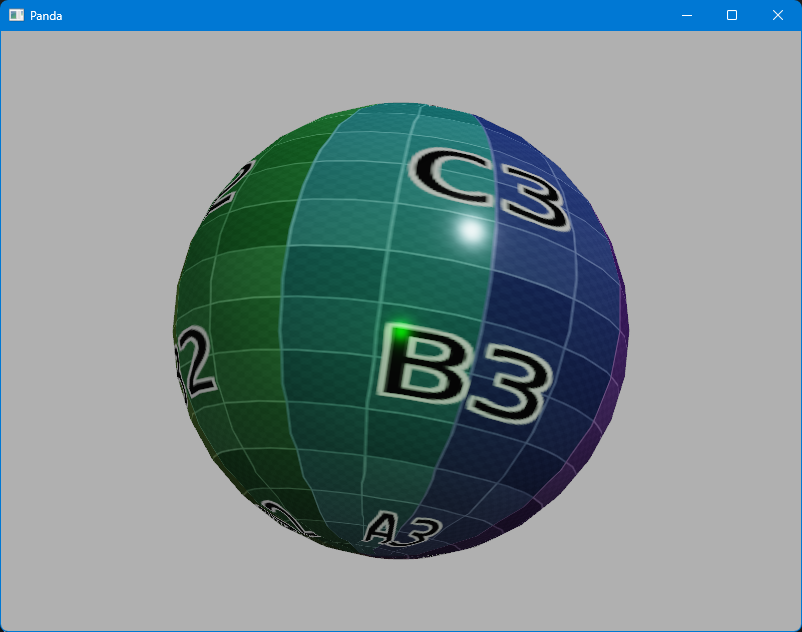
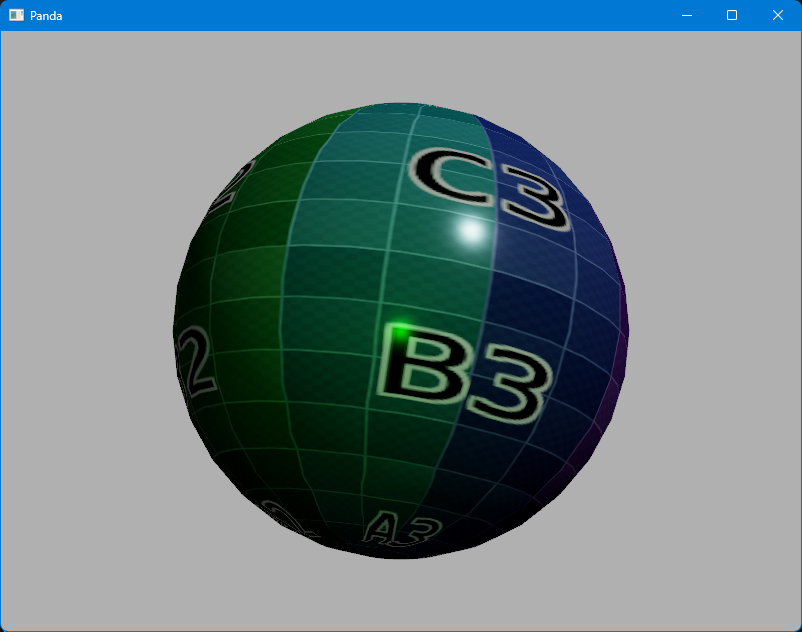
Fix ambient lighting in PBR lesson 1.

Changed region(s): [[0.2182, 0.1503, 0.8105, 0.9019]]

diff --git a/pbr/01-scene_setup/main.py b/pbr/01-scene_setup/main.py
@@ -21,7 +21,7 @@ class ShaderDemo(ShowBase):
 
         # Setup lighting
         self.ambient_light = self.render.attach_new_node(AmbientLight("AmbientLight"))
-        self.ambient_light.node().set_color(Vec4(.2, .2, .2, 1))
+        self.ambient_light.node().set_color(Vec4(.04, .04, .04, 1))
         self.render.set_light(self.ambient_light)
 
         self.sun = self.render.attach_new_node(DirectionalLight("Sun"))

diff --git a/pbr/01-scene_setup/README.md b/pbr/01-scene_setup/README.md
@@ -69,7 +69,7 @@ And inside the `__init__` method of the `ShaderDemo` class, add this code before
 ```python
 # Setup lighting
 self.ambient_light = self.render.attach_new_node(AmbientLight("AmbientLight"))
-self.ambient_light.node().set_color(Vec4(.2, .2, .2, 1))
+self.ambient_light.node().set_color(Vec4(.04, .04, .04, 1))
 self.render.set_light(self.ambient_light)
 
 self.sun = self.render.attach_new_node(DirectionalLight("Sun"))
